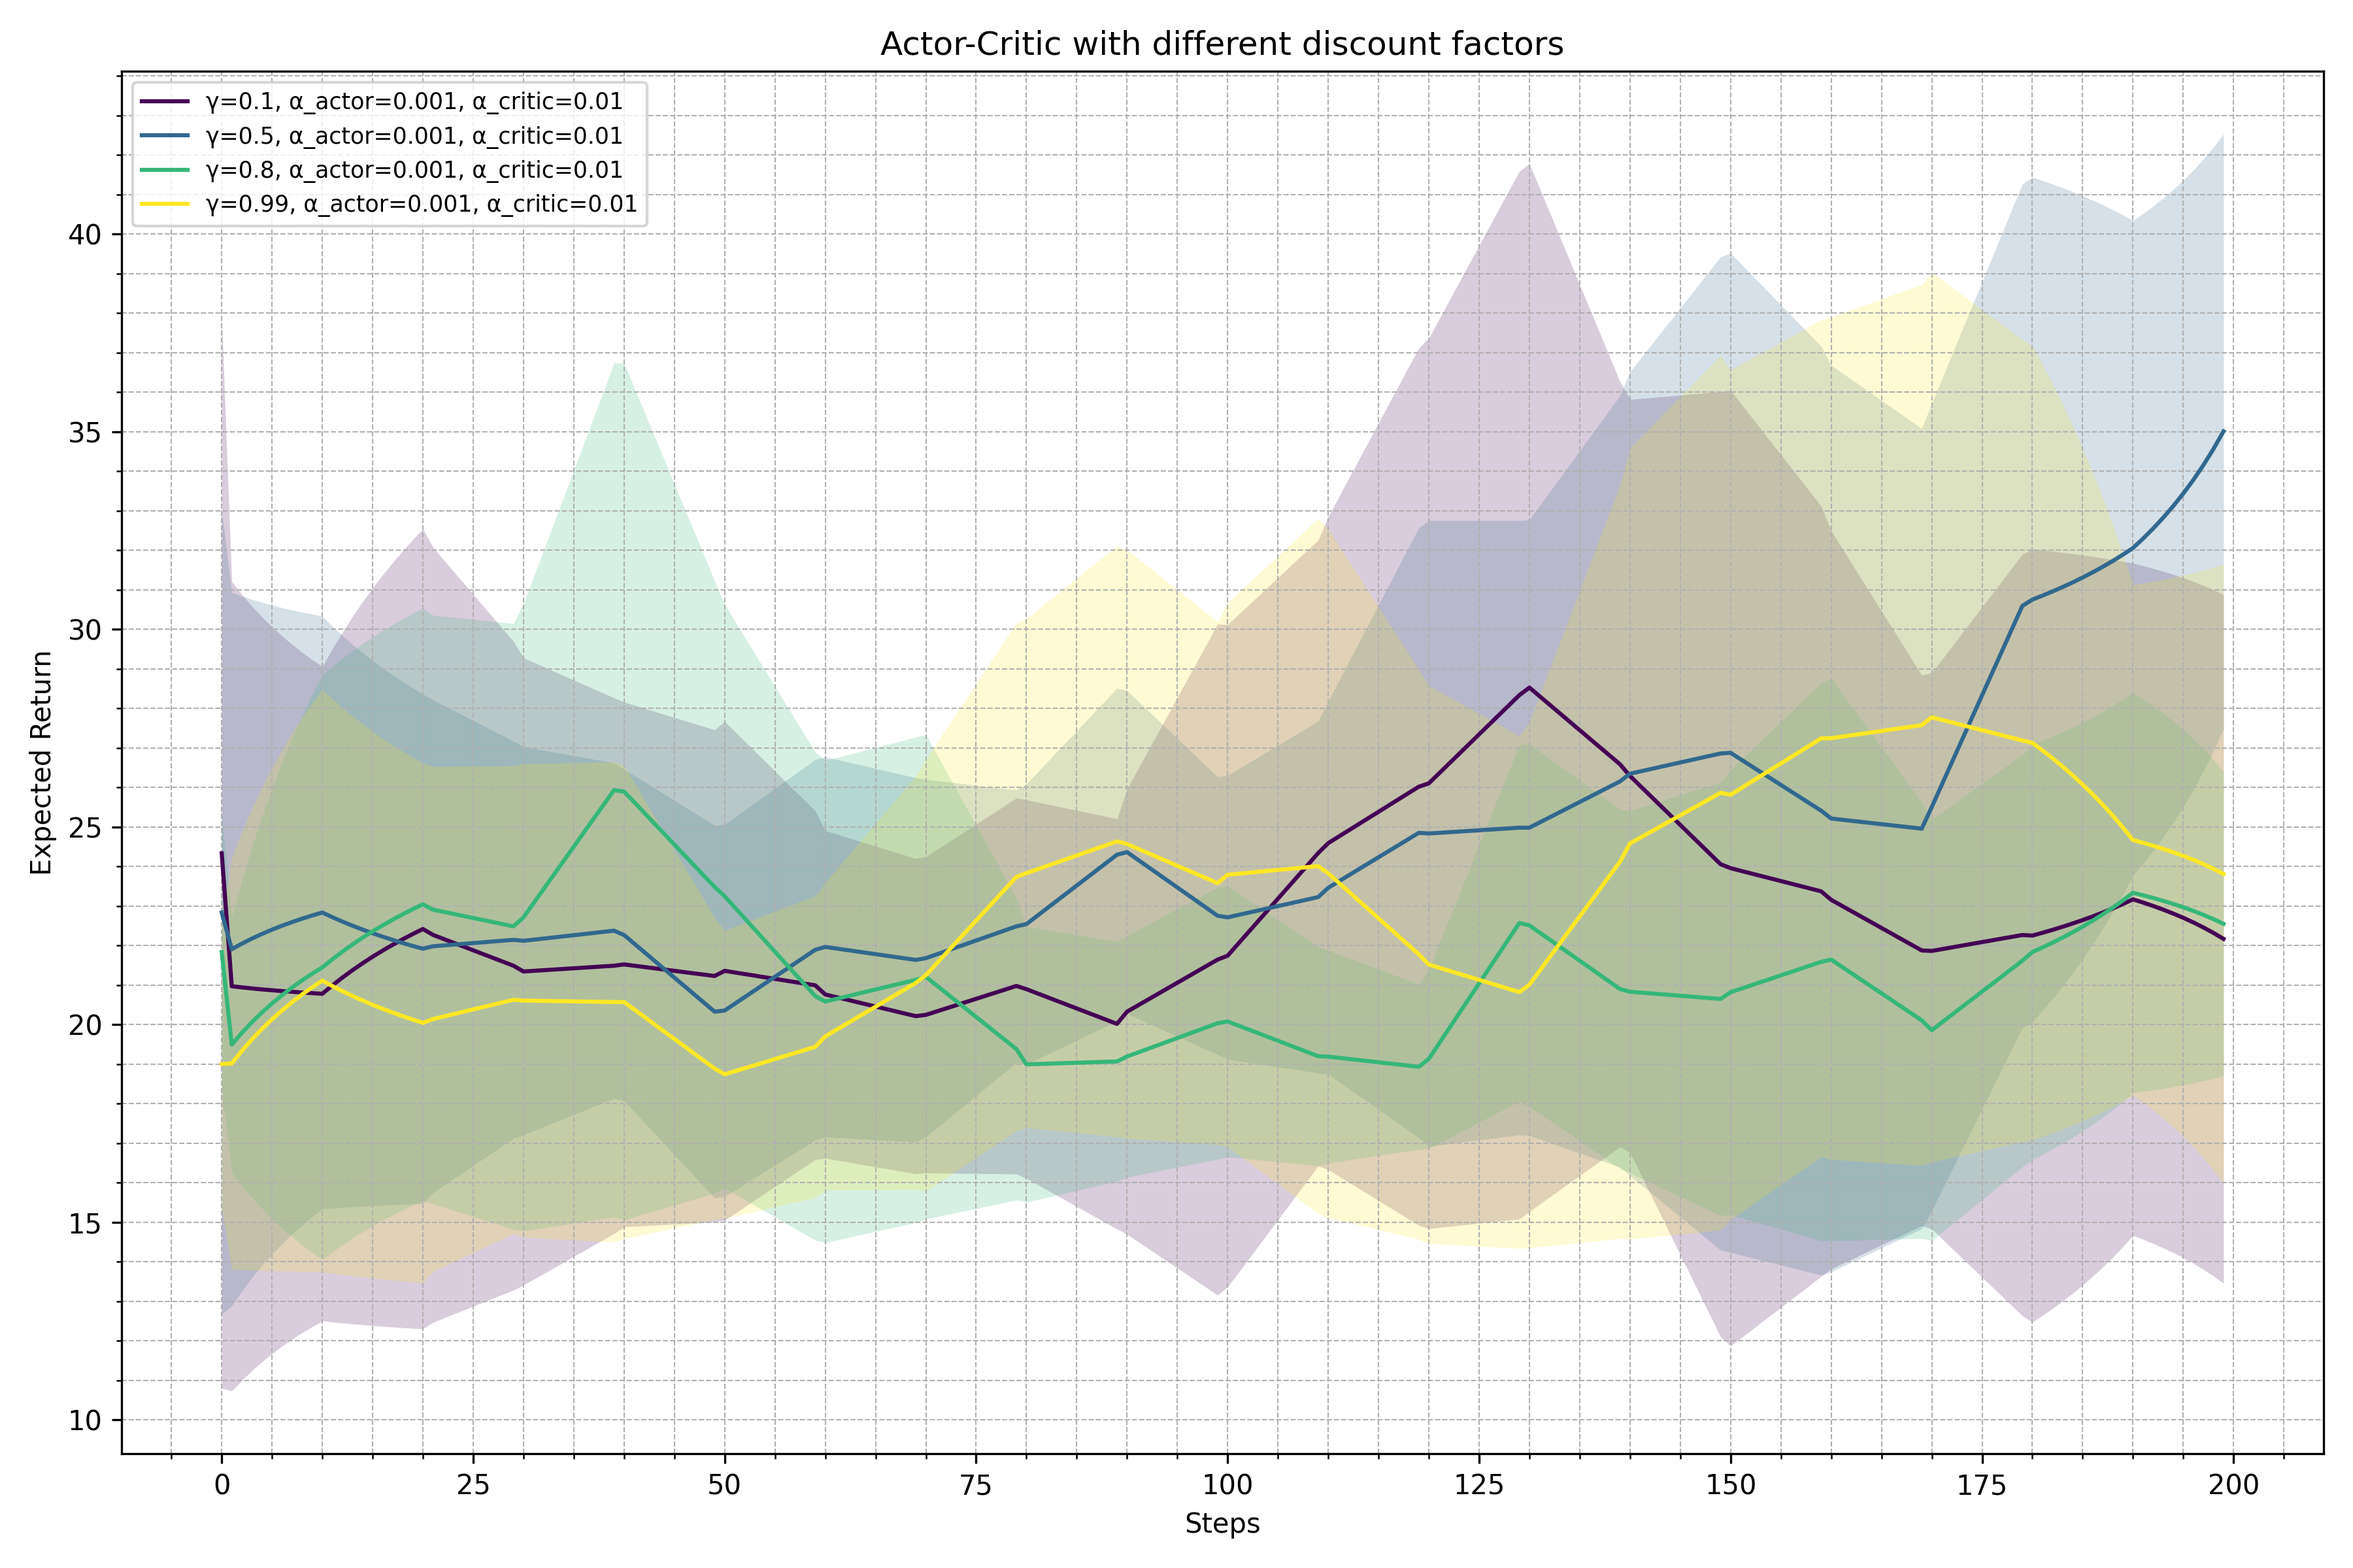
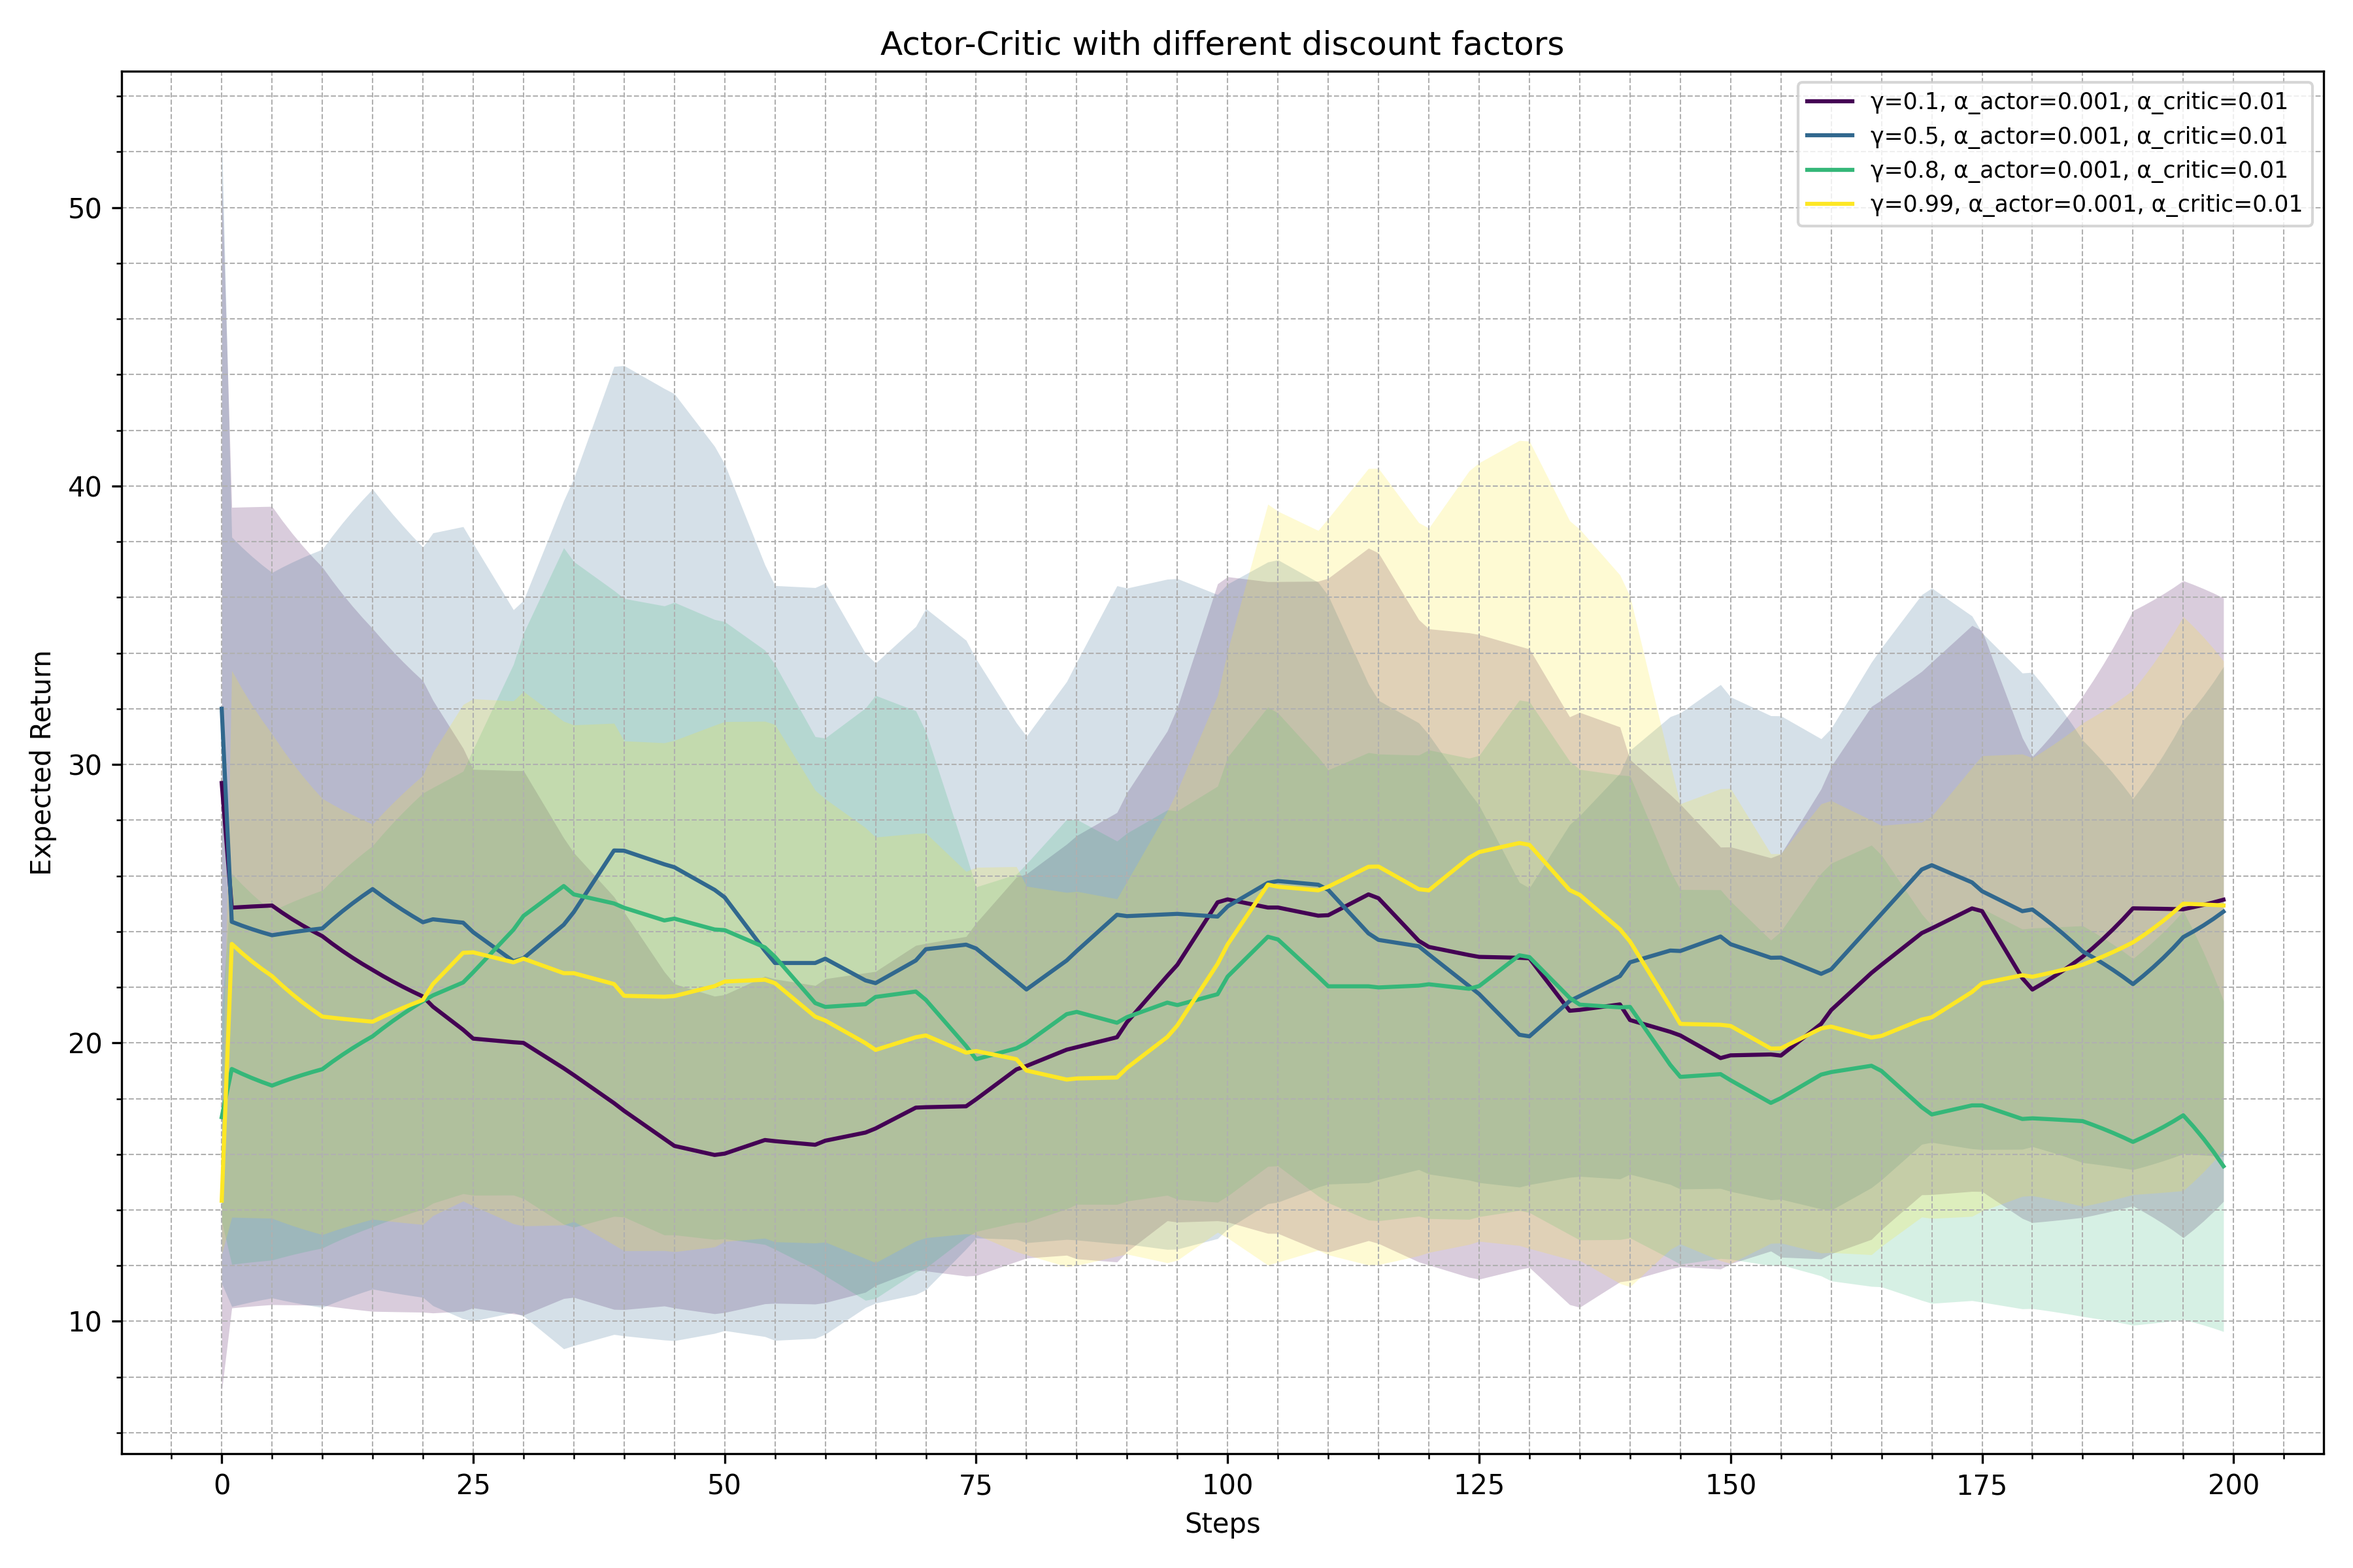
actor critic code updated for everyone

diff --git a/experiments/actor_critic_mountain_car.py b/experiments/actor_critic_mountain_car.py
@@ -115,7 +115,7 @@ def error_shade_plot(ax, data, stepsize, smoothing_window=1, **kwargs):
     ax.fill_between(x, y - error, y + error, alpha=0.2, linewidth=0.0, color=line.get_color())
 
 if __name__ == "__main__":
-    parser = argparse.ArgumentParser(description="Actor-Critic for CartPole-v1")
+    parser = argparse.ArgumentParser(description="Actor-Critic for MountainCar-v0")
     parser.add_argument("--gamma_values", type=float, nargs="+", default=[0.1, 0.5, 0.8, 0.99], help="Discount factor values")
     parser.add_argument("--alpha_actor_values", type=float, nargs="+", default=[0.001], help="Learning rate for actor")
     parser.add_argument("--alpha_critic_values", type=float, nargs="+", default=[0.01], help="Learning rate for critic")
@@ -127,7 +127,7 @@ if __name__ == "__main__":
     parser.add_argument('--experiment_name', type=str, help="Experiment name")
     args = parser.parse_args()
     
-    env_id = "CartPole-v1"
+    env_id = "MountainCar-v0"
     env = gymnasium.make(env_id)
     env_eval = gymnasium.make(env_id)
 
@@ -135,18 +135,9 @@ if __name__ == "__main__":
     n_actions = env.action_space.n
 
     # automatically set centers and sigmas
-    n_centers = [20] * state_dim
+    n_centers = [15] * state_dim
     state_low = env.observation_space.low
     state_high = env.observation_space.high
-
-    # limiting the bounds to finite numbers
-    for i, state in enumerate(state_low):
-        if state == -np.inf:
-            state_low[i] = -5.5
-
-    for i, state in enumerate(state_high):
-        if state == np.inf:
-            state_high[i] = 5.5
 
     centers = np.array(
         np.meshgrid(*[

diff --git a/experiments/actor_critic_acrobot.py b/experiments/actor_critic_acrobot.py
@@ -115,7 +115,7 @@ def error_shade_plot(ax, data, stepsize, smoothing_window=1, **kwargs):
     ax.fill_between(x, y - error, y + error, alpha=0.2, linewidth=0.0, color=line.get_color())
 
 if __name__ == "__main__":
-    parser = argparse.ArgumentParser(description="Actor-Critic for CartPole-v1")
+    parser = argparse.ArgumentParser(description="Actor-Critic for Acrobot-v1")
     parser.add_argument("--gamma_values", type=float, nargs="+", default=[0.1, 0.5, 0.8, 0.99], help="Discount factor values")
     parser.add_argument("--alpha_actor_values", type=float, nargs="+", default=[0.001], help="Learning rate for actor")
     parser.add_argument("--alpha_critic_values", type=float, nargs="+", default=[0.01], help="Learning rate for critic")
@@ -127,7 +127,7 @@ if __name__ == "__main__":
     parser.add_argument('--experiment_name', type=str, help="Experiment name")
     args = parser.parse_args()
     
-    env_id = "CartPole-v1"
+    env_id = "Acrobot-v1"
     env = gymnasium.make(env_id)
     env_eval = gymnasium.make(env_id)
 
@@ -135,18 +135,9 @@ if __name__ == "__main__":
     n_actions = env.action_space.n
 
     # automatically set centers and sigmas
-    n_centers = [20] * state_dim
+    n_centers = [10] * state_dim
     state_low = env.observation_space.low
     state_high = env.observation_space.high
-
-    # limiting the bounds to finite numbers
-    for i, state in enumerate(state_low):
-        if state == -np.inf:
-            state_low[i] = -5.5
-
-    for i, state in enumerate(state_high):
-        if state == np.inf:
-            state_high[i] = 5.5
 
     centers = np.array(
         np.meshgrid(*[

diff --git a/experiments/actor_critic_pendulum.py b/experiments/actor_critic_pendulum.py
@@ -13,7 +13,7 @@ def cantor_pairing(x, y):
 def rbf_features(x: np.array, c: np.array, s: np.array) -> np.array:
     return np.exp(-(((x[:, None] - c[None]) / s[None])**2).sum(-1) / 2.0)
 
-def expected_return(env, weights, sigma, episodes=50):
+def expected_return(env, weights, sigma, episodes=10):
     G = np.zeros(episodes)
     for e in range(episodes):
         s, _ = env.reset(seed=e)
@@ -45,7 +45,7 @@ def actor_critic(gamma, seed, alpha_actor, alpha_critic, episodes_eval, eval_ste
     sigma = 2.0  # for Gaussian
     tot_steps = 0
     exp_return_history = np.zeros(max_steps)
-    exp_return = expected_return(env_eval, actor_weights, gamma, episodes_eval)
+    exp_return = expected_return(env_eval, actor_weights, sigma, episodes_eval)
     pbar = tqdm(total=max_steps)
 
     while tot_steps < max_steps:
